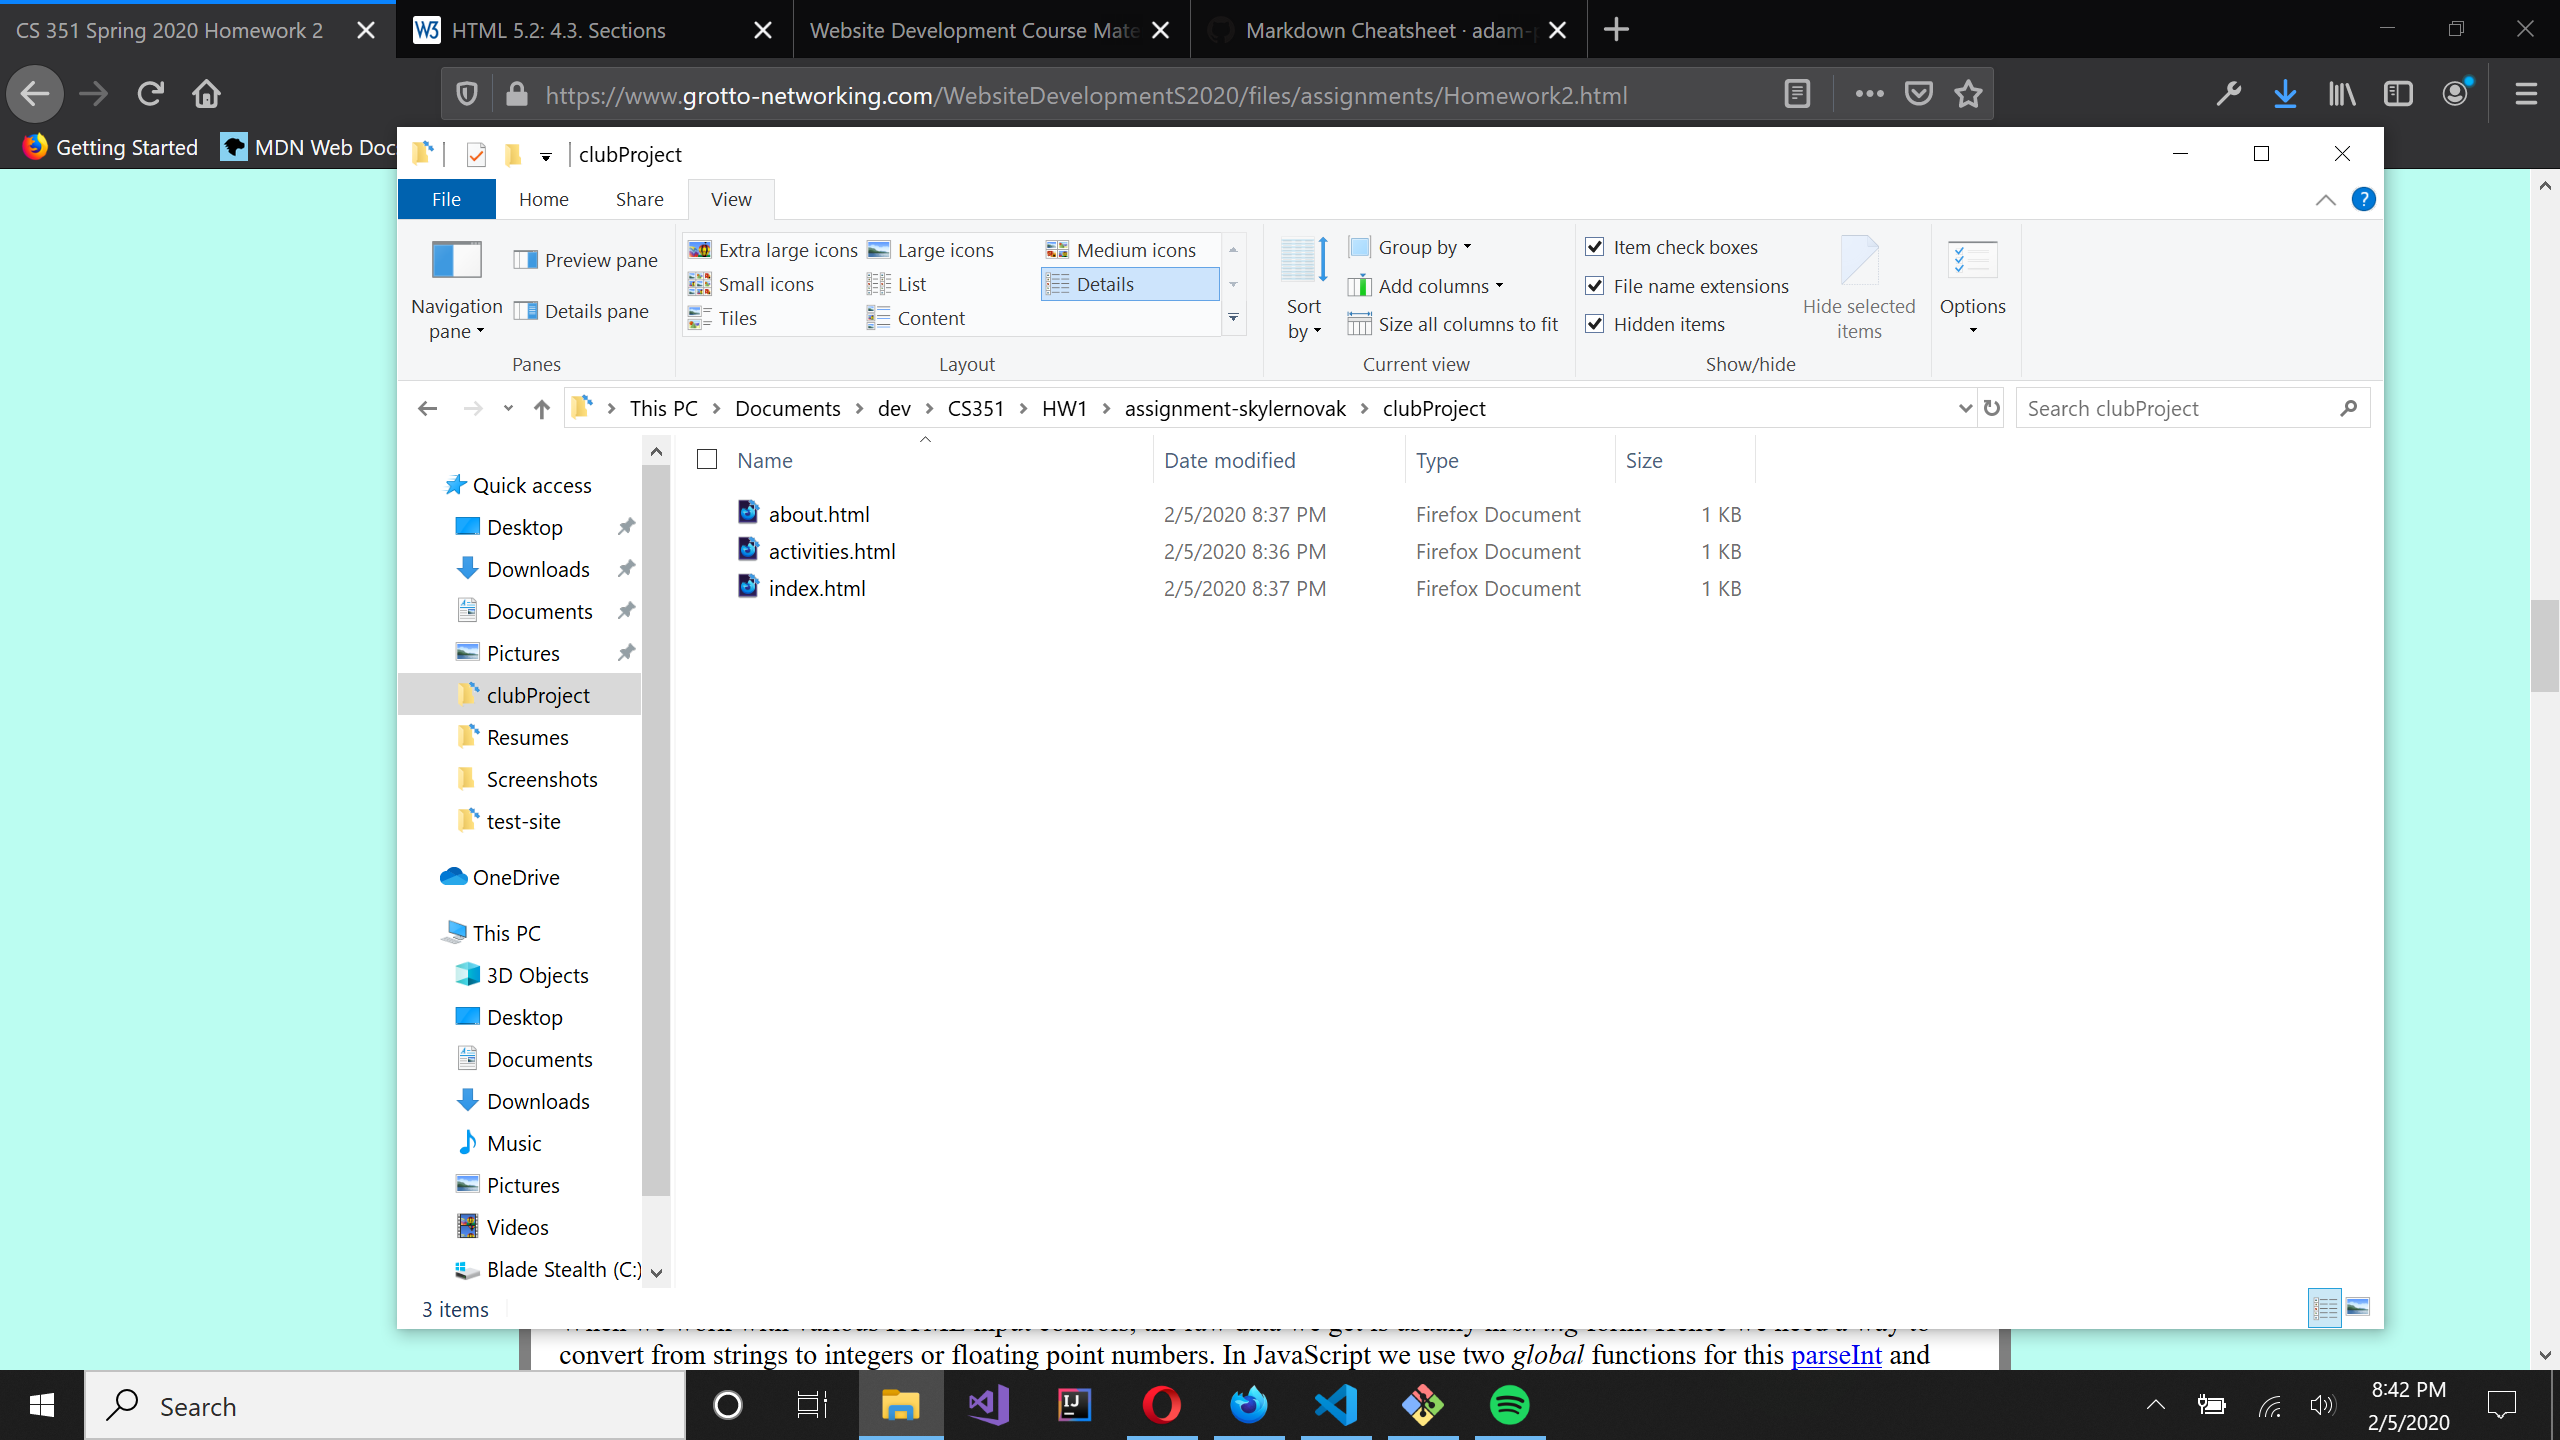
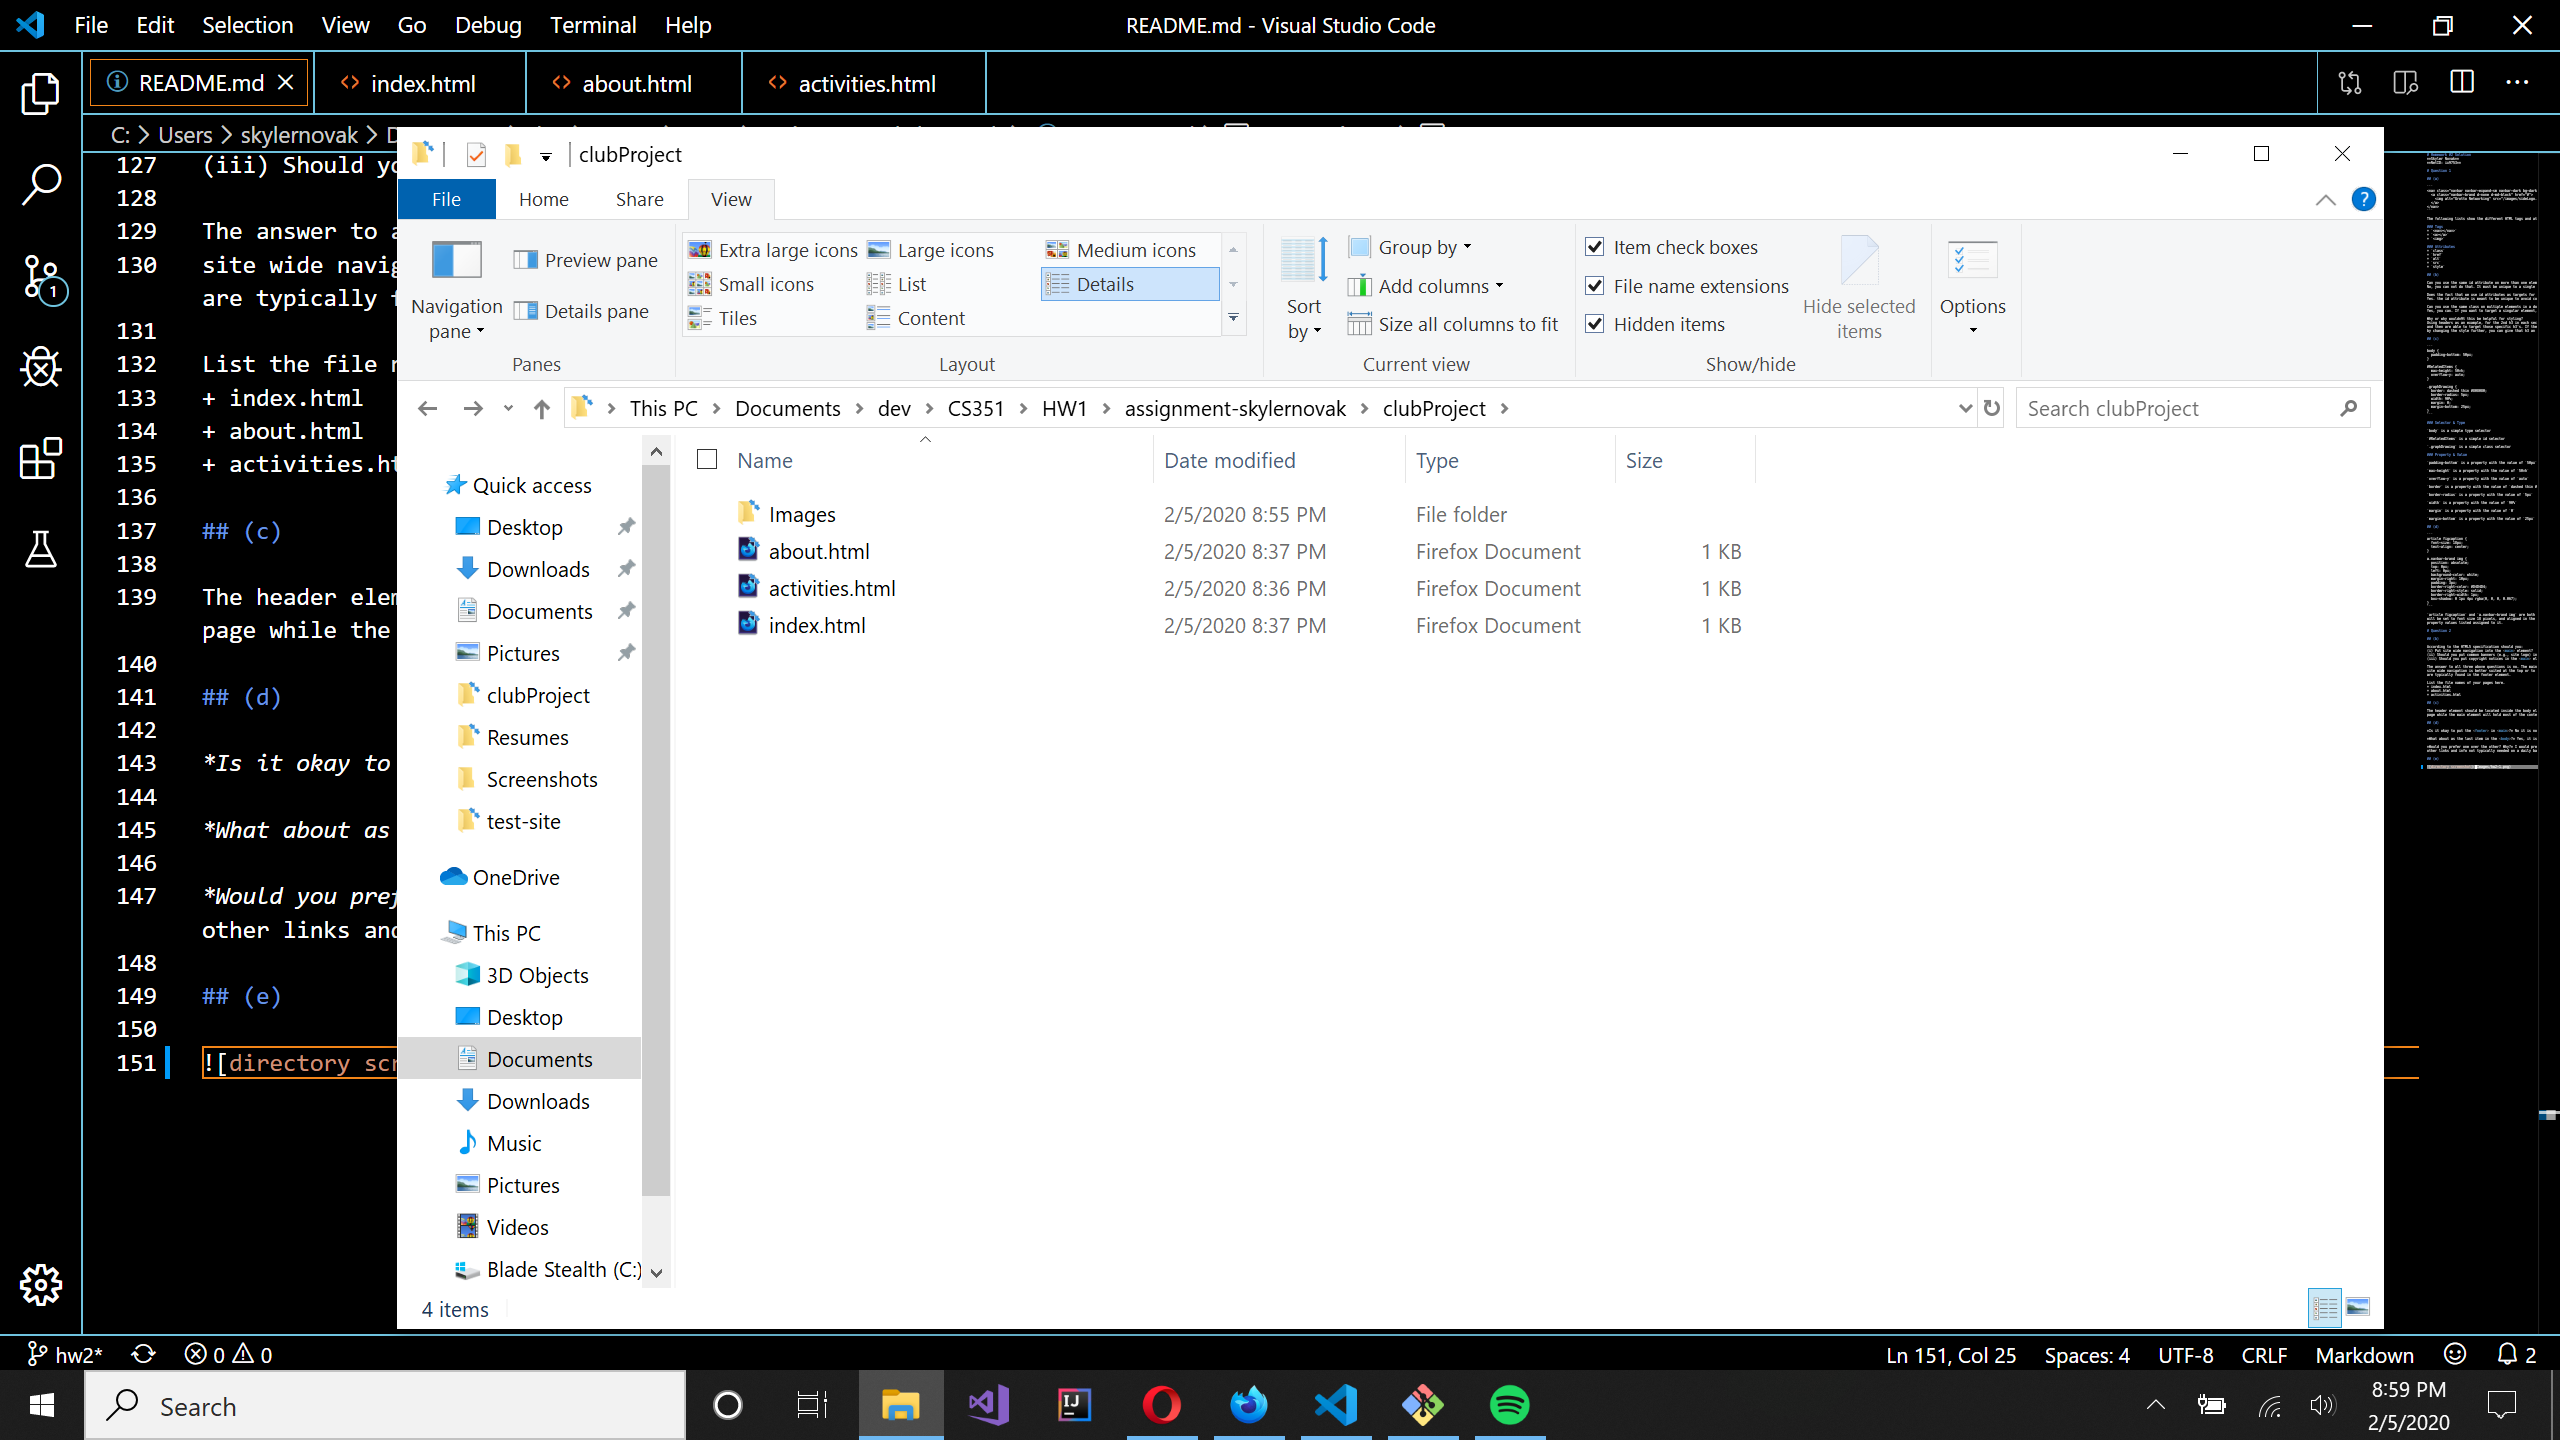
fix screenshot capture

diff --git a/README.md b/README.md
@@ -148,4 +148,4 @@ The header element should be located inside the body element, but should preceed
 
 ## (e)
 
-![directory screenshot](../Images/hw2-1.png)
+![directory screenshot](/Images/hw2-1.png)
